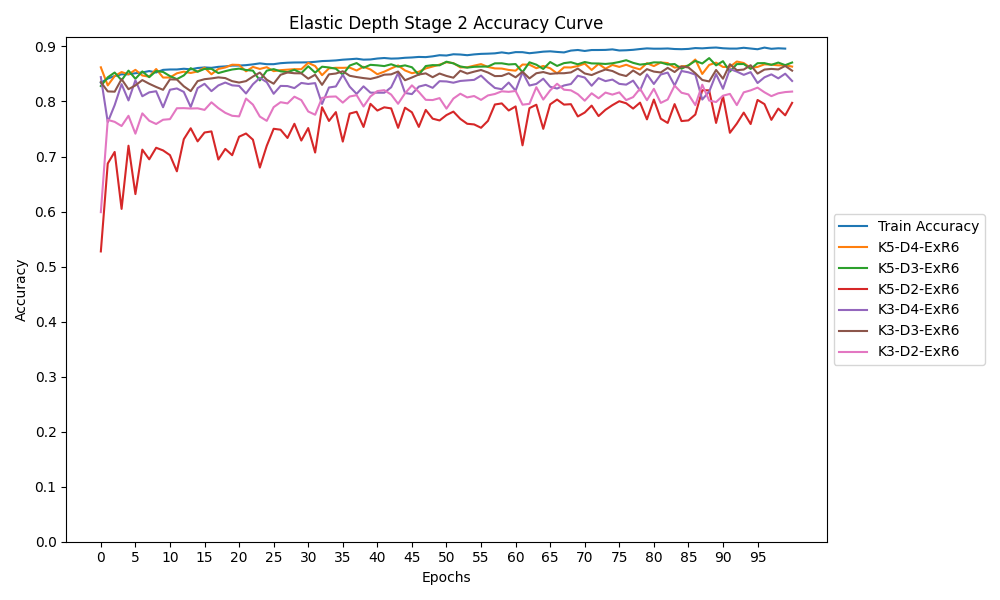
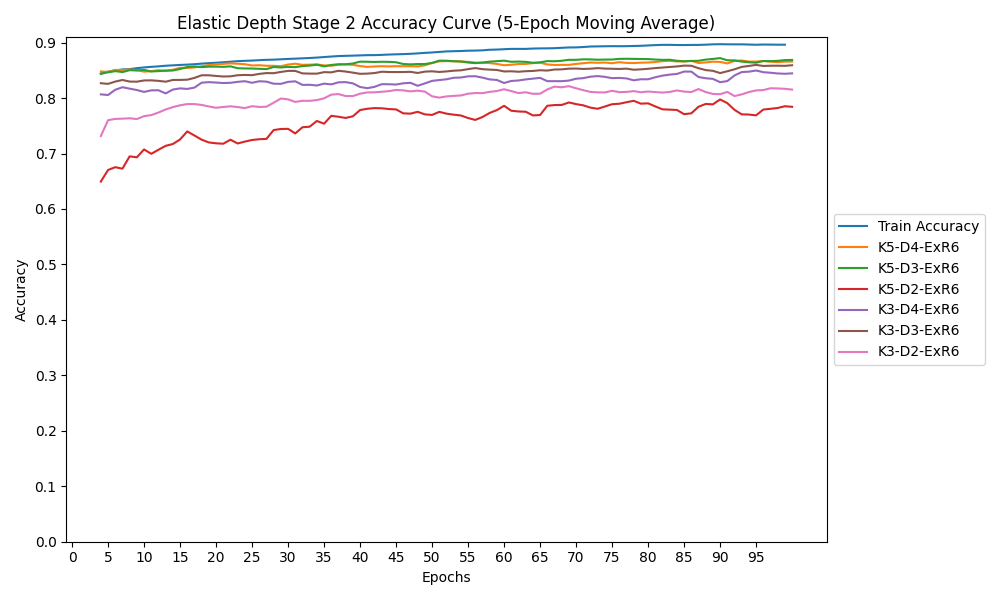
new plots with rolling average

diff --git a/ofa/utils.py b/ofa/utils.py
@@ -31,26 +31,26 @@ def plot_curves(train_accuracy, test_accuracy, title):
     plt.show()
 
 if __name__ == "__main__":
-    f = open('../experiments/mnist_100_epochs_per_stage_1650946373/big_network_results.json')
+    f = open('../experiments/cifar10_100_epochs_per_stage_1650861792/big_network_results.json')
     data = json.load(f)
     plot_curves(data['train_accuracies'],data['val_accuracies'], 'Big Network Accuracy Curve (5-Epoch Moving Average)')
     
-    f = open('../experiments/mnist_100_epochs_per_stage_1650946373/elastic_depth_stage_1_results.json')
+    f = open('../experiments/cifar10_100_epochs_per_stage_1650861792/elastic_depth_stage_1_results.json')
     data = json.load(f)
     plot_curves(data['train_accuracies'], data['val_accuracies'], 'Elastic Depth Stage 1 Accuracy Curve (5-Epoch Moving Average)')
     
-    f = open('../experiments/mnist_100_epochs_per_stage_1650946373/elastic_depth_stage_2_results.json')
+    f = open('../experiments/cifar10_100_epochs_per_stage_1650861792/elastic_depth_stage_2_results.json')
     data = json.load(f)
     plot_curves(data['train_accuracies'], data['val_accuracies'], 'Elastic Depth Stage 2 Accuracy Curve (5-Epoch Moving Average)')
     
-    f = open('../experiments/mnist_100_epochs_per_stage_1650946373/elastic_kernel_results.json')
+    f = open('../experiments/cifar10_100_epochs_per_stage_1650861792/elastic_kernel_results.json')
     data = json.load(f)
     plot_curves(data['train_accuracies'], data['val_accuracies'], 'Elastic Kernel Curve (5-Epoch Moving Average)')
     
-    f = open('../experiments/mnist_100_epochs_per_stage_1650946373/elastic_width_stage_1_results.json')
+    f = open('../experiments/cifar10_100_epochs_per_stage_1650861792/elastic_width_stage_1_results.json')
     data = json.load(f)
     plot_curves(data['train_accuracies'], data['val_accuracies'], 'Elastic Width Stage 1 Accuracy Curve (5-Epoch Moving Average)')
     
-    f = open('../experiments/mnist_100_epochs_per_stage_1650946373/elastic_width_stage_2_results.json')
+    f = open('../experiments/cifar10_100_epochs_per_stage_1650861792/elastic_width_stage_2_results.json')
     data = json.load(f)
     plot_curves(data['train_accuracies'], data['val_accuracies'], 'Elastic Width Stage 2 Accuracy Curve (5-Epoch Moving Average)')
